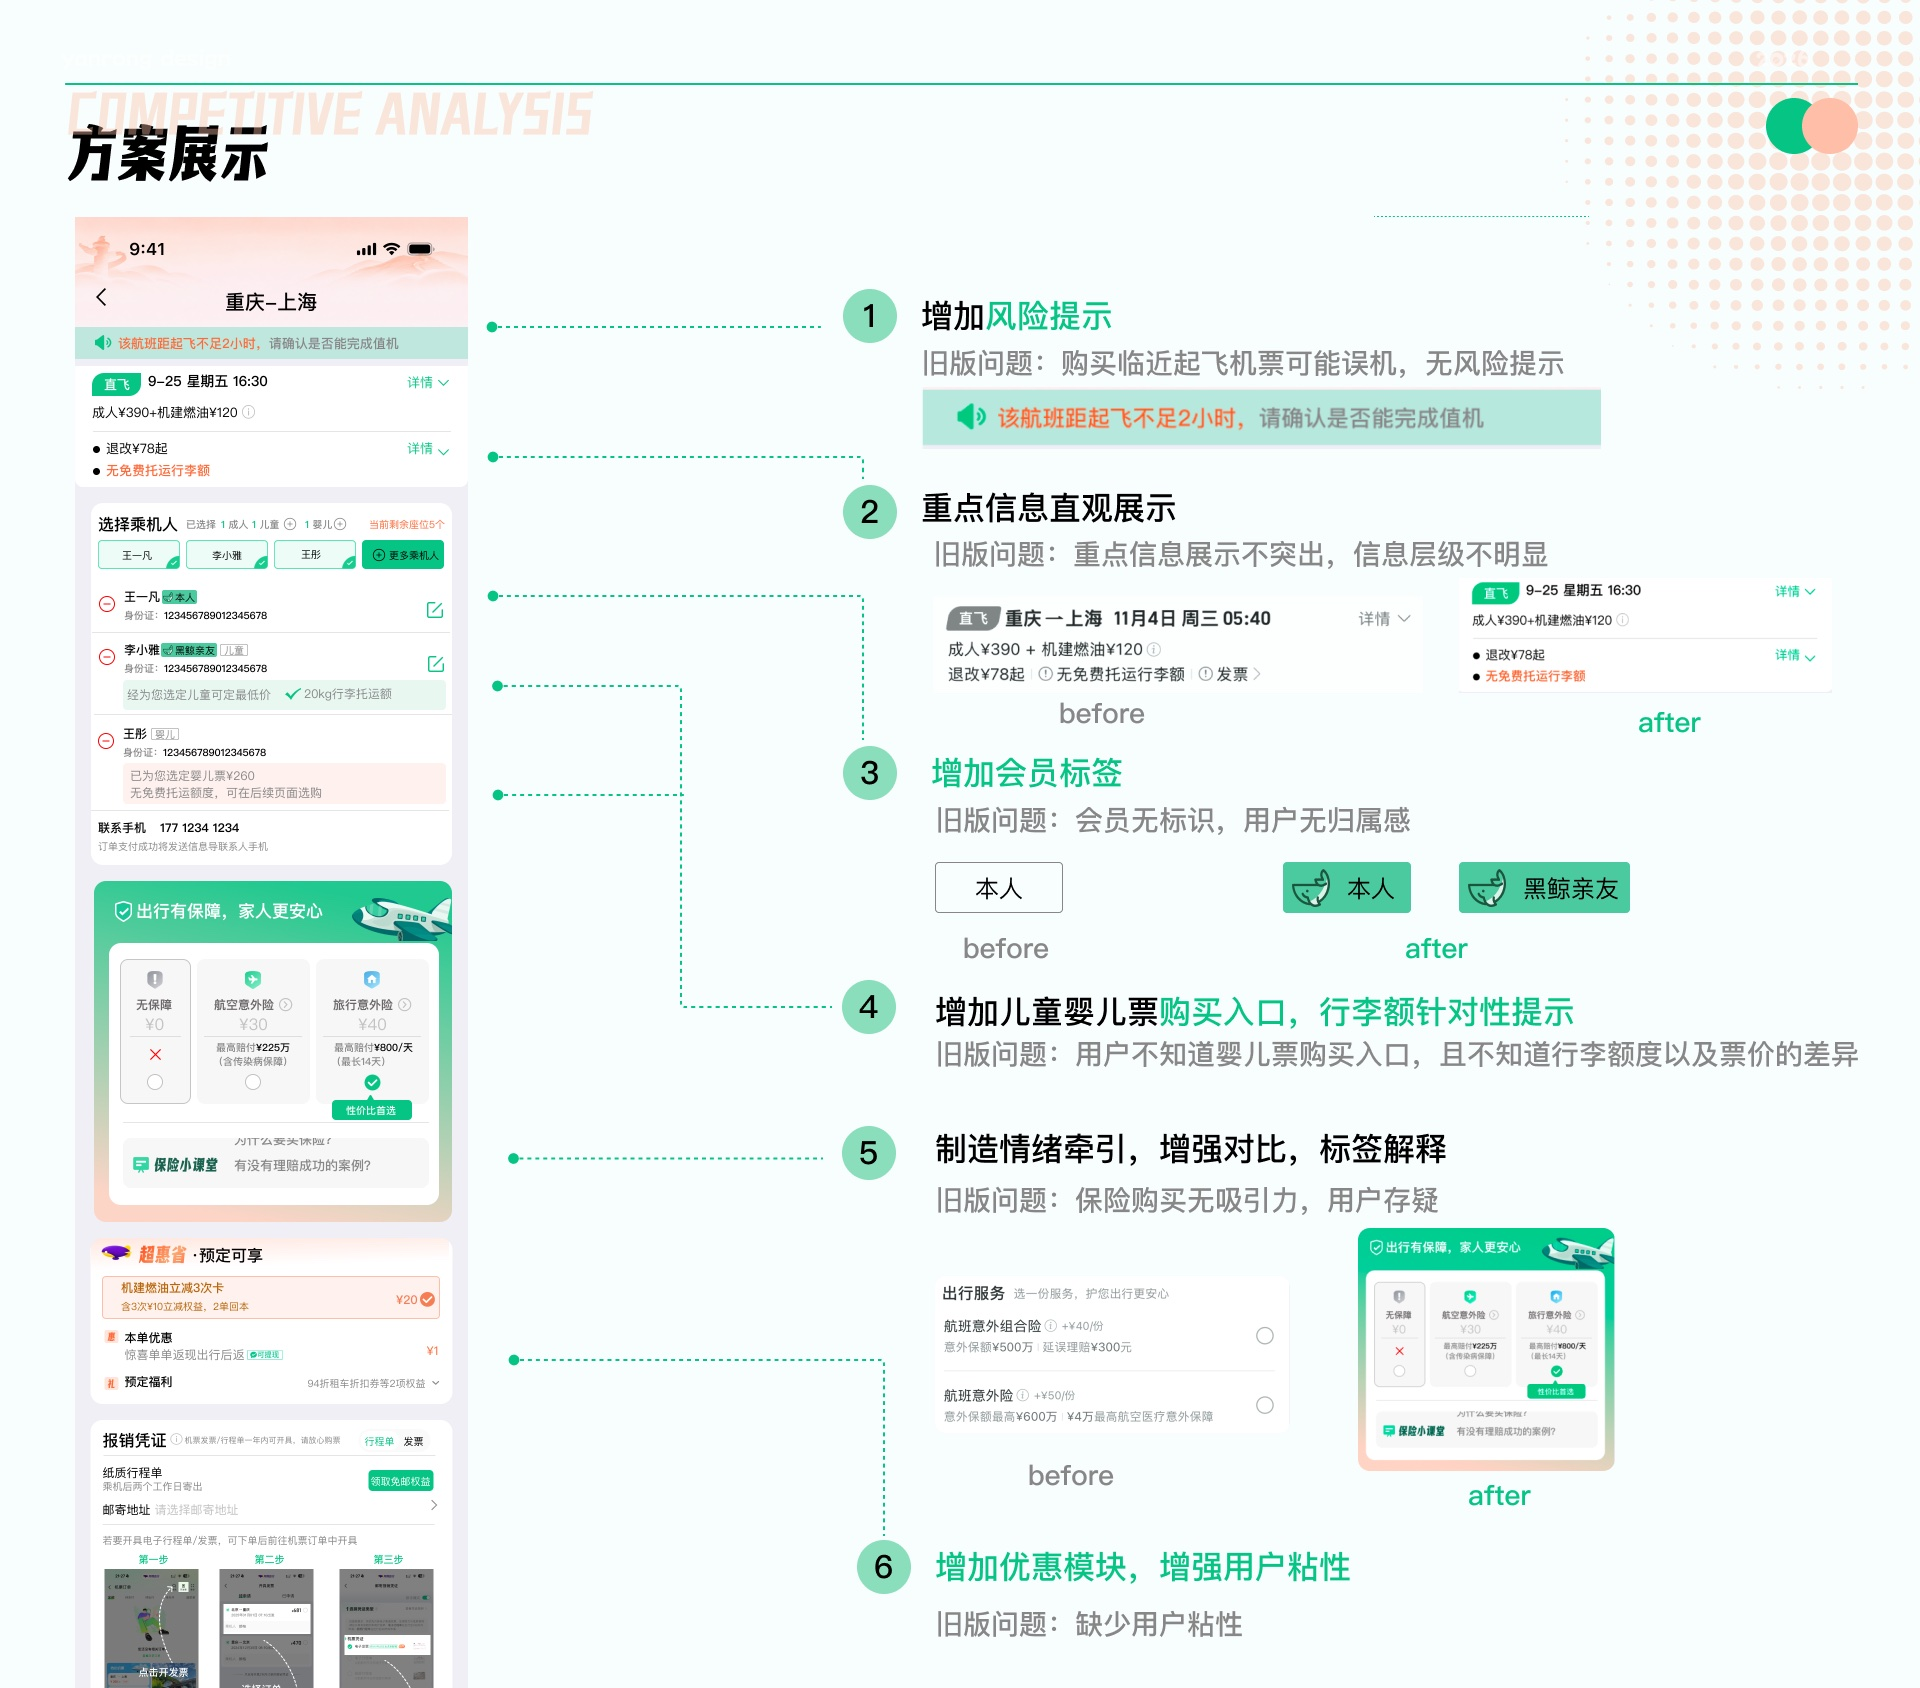
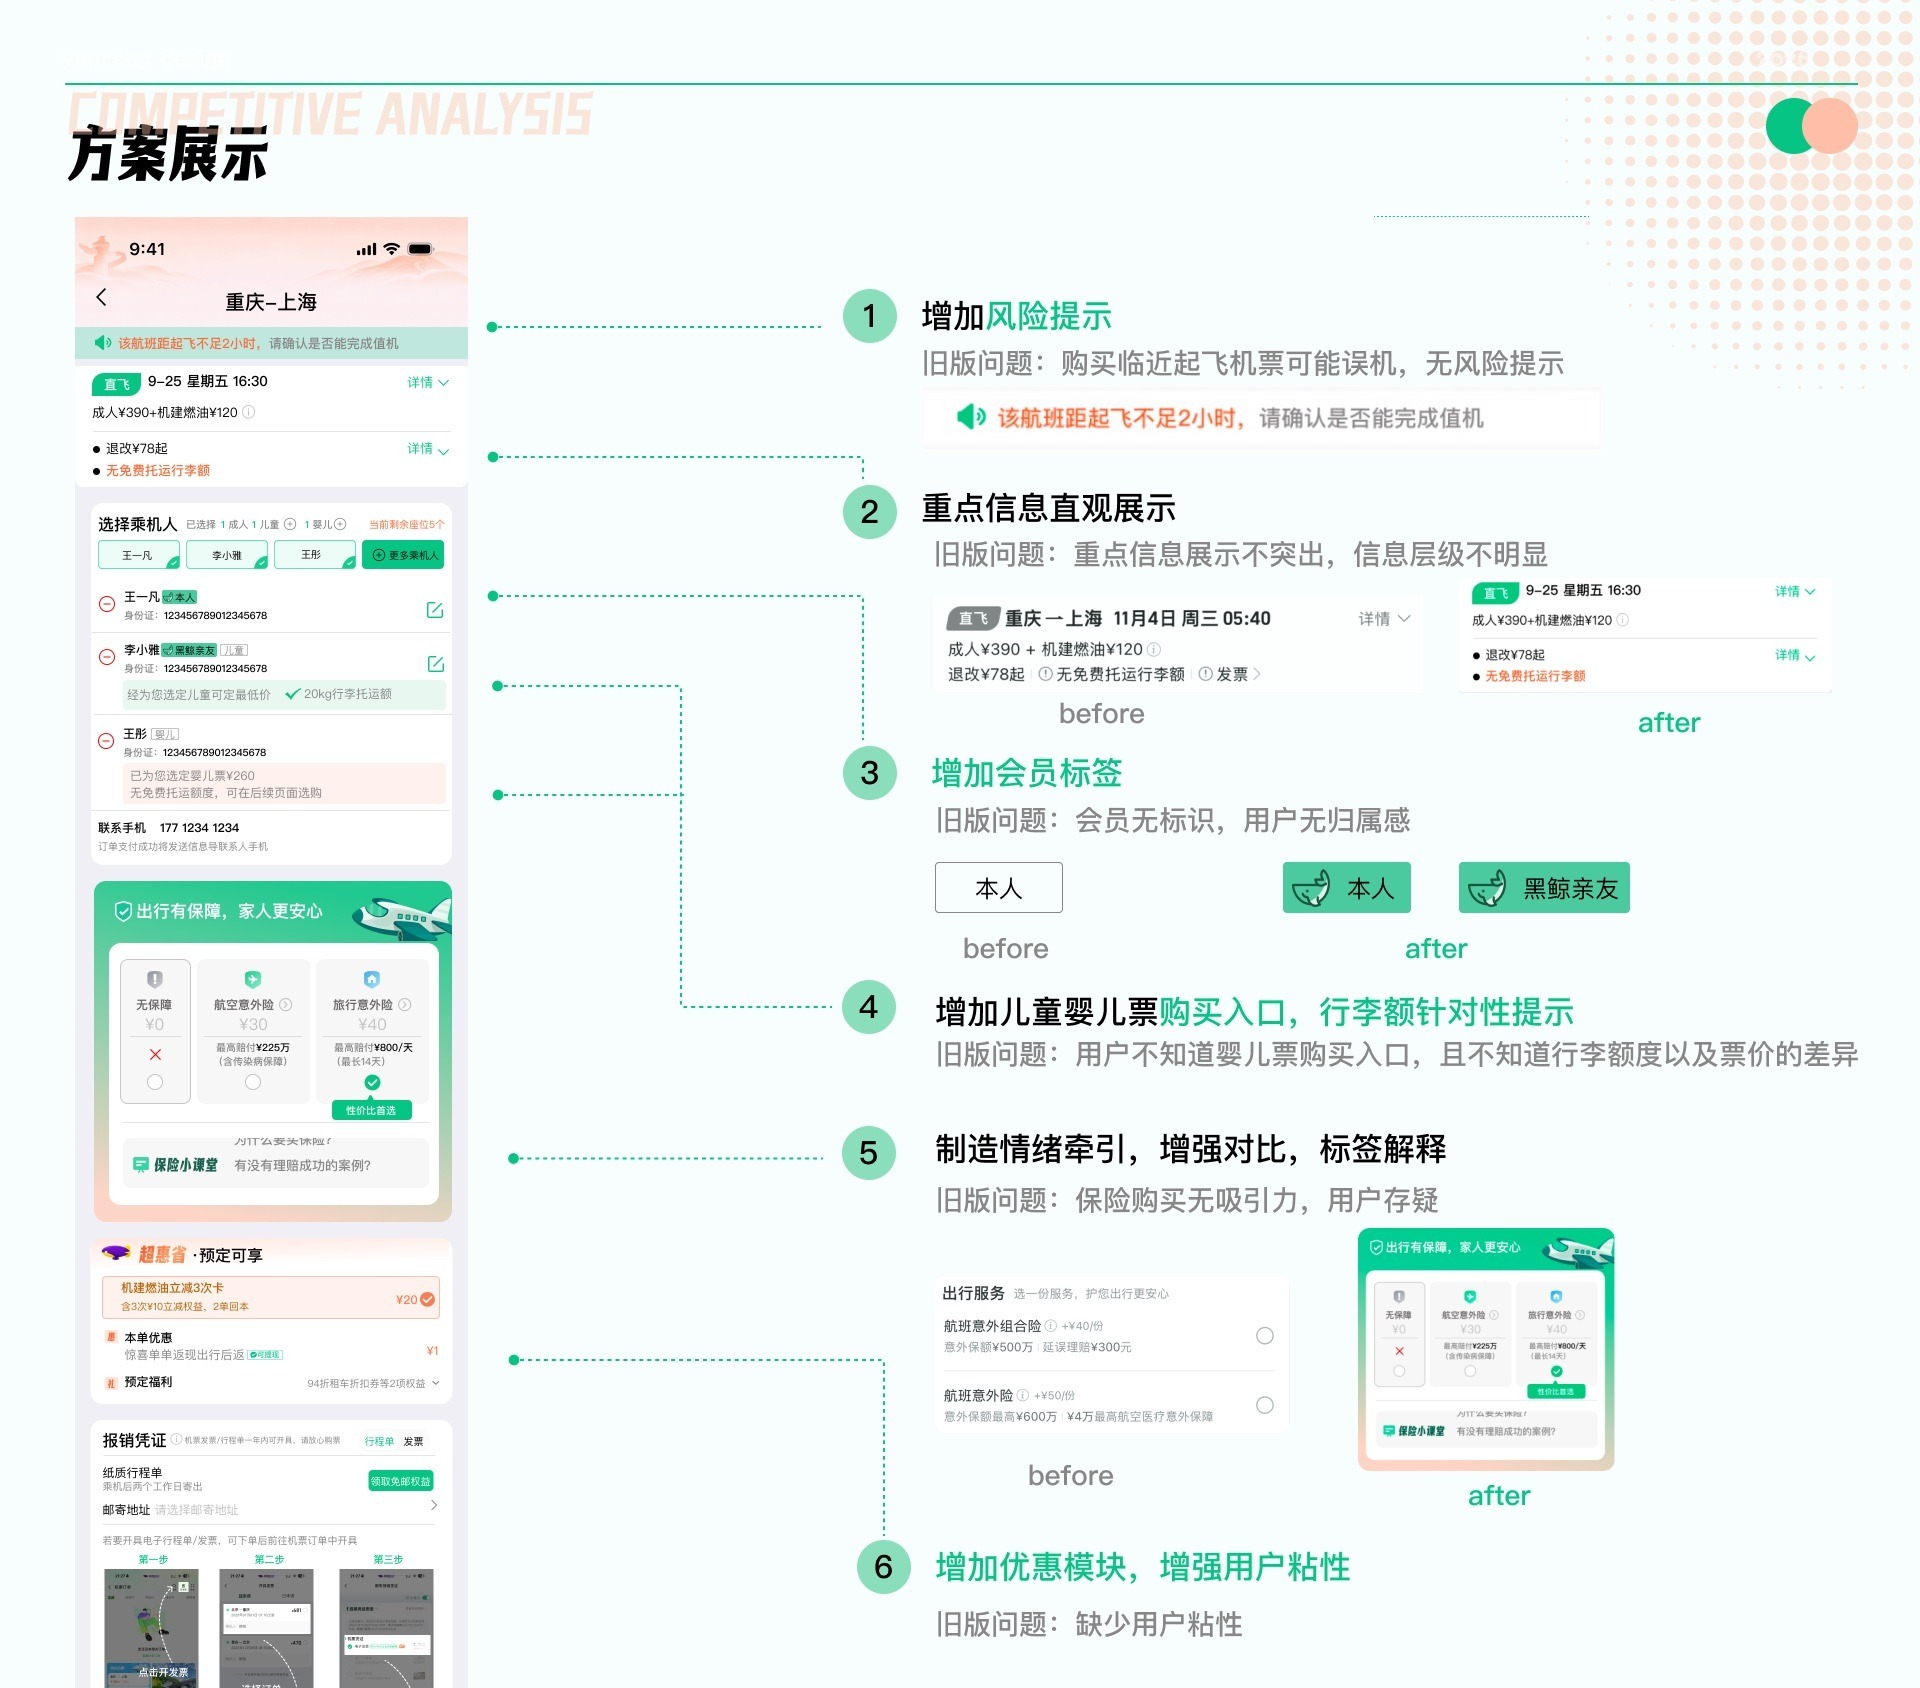
同程 slide 17: risk-notice callout on white instead of mint green
Background swapped by unmixing each pixel against the old mint, so the orange /
grey text and its anti-aliasing are untouched (the 登机 source PNGs are gone, so
the site JPG was edited directly). The bar inside the phone mock-up is unchanged.

Changed region(s): [[0.4688, 0.2156, 0.8438, 0.2773]]

diff --git a/project-tongcheng.html b/project-tongcheng.html
@@ -67,7 +67,7 @@
       <img src="src/projects/tongcheng/14.jpg?v=2" alt="提高用户留存率 · 培养新用户" width="1920" height="1246" loading="lazy" decoding="async" />
       <img src="src/projects/tongcheng/15.jpg?v=1" alt="提高用户活跃度 · 突出平台优惠" width="1920" height="1246" loading="lazy" decoding="async" />
       <img src="src/projects/tongcheng/16.jpg?v=1" alt="框架调整" width="1920" height="1246" loading="lazy" decoding="async" />
-      <img src="src/projects/tongcheng/17.jpg?v=1" alt="方案展示" width="1920" height="1688" loading="lazy" decoding="async" />
+      <img src="src/projects/tongcheng/17.jpg?v=2" alt="方案展示" width="1920" height="1688" loading="lazy" decoding="async" />
       <img src="src/projects/tongcheng/18.jpg?v=1" alt="用户体验度量 · 场景任务卡片测试" width="1920" height="1080" loading="lazy" decoding="async" />
       <img src="src/projects/tongcheng/19.jpg?v=1" alt="用户体验度量 · CES 易用性测试" width="1920" height="1080" loading="lazy" decoding="async" />
       <img src="src/projects/tongcheng/20.jpg?v=1" alt="项目流程" width="1920" height="1080" loading="lazy" decoding="async" />
